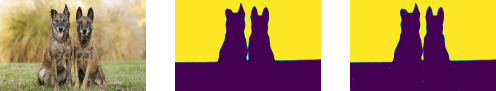
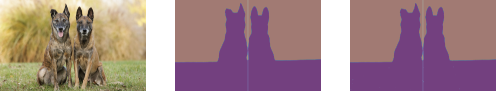
Add symmetric axis to output

diff --git a/symmetric_seg.py b/symmetric_seg.py
@@ -5,6 +5,9 @@ import numpy as np
 from scipy.ndimage import rotate
 from glob import glob
 import os
+import torch
+from flip_rotation import flip_mask_with_symmetric_center
+from time import time
 
 
 def compute_iou(mask1, mask2):
@@ -24,82 +27,71 @@ def compute_iou(mask1, mask2):
     return iou
 
 
-def flip_mask_with_symmetric_center(mask, center, theta):
-    """
-    Flip a binary mask with respect to its symmetric center and given rotation angle.
-    
-    Arguments:
-    mask -- 2D numpy array, binary mask to be flipped
-    center -- tuple, center of the symmetric axis
-    theta -- float, rotation angle (in degrees)
-    
-    Returns:
-    flipped_mask -- 2D numpy array, flipped binary mask
-    """
-    
-    # Compute shift required to center the bounding box in the image
-    center = np.array(center).astype(int)
-    shift = tuple(center - (np.array(mask.shape) / 2).astype(int))
-    neg_shift = tuple([-x for x in shift])
-    
-    # Shift the image
-    shifted_mask = np.roll(mask, neg_shift, axis=(0, 1))
-    
-    # Flip the image with respect to the symmetric axis
-    flipped_mask = rotate(shifted_mask, -theta, reshape=False)
-    flipped_mask = np.fliplr(flipped_mask)
-    flipped_mask = rotate(flipped_mask, theta, reshape=False)
-    
-    # Shift the image back to its original position
-    flipped_mask = np.roll(flipped_mask, shift, axis=(0, 1))
-    
-    return flipped_mask
-
-
-def symmetric_images_detection(model_path, thetas = np.arange(0, 180, 30)):  
-    sam = sam_model_registry["vit_h"](checkpoint=model_path).to("cuda")
+def symmetric_images_detection(model_path, image_paths, 
+                               iou_threshold=0.8, area_ratio_threshold=0.1, thetas=np.arange(0, 180, 30)):
+    device = "cuda" if torch.cuda.is_available() else "cpu"
+    sam = sam_model_registry["vit_h"](checkpoint=model_path).to(device)
     predictor = SamPredictor(sam)
     mask_generator = SamAutomaticMaskGenerator(sam)
 
     filtered_segs = []
+    filtered_axes = []
+    max_ious = []
+    max_thetas = []
     for image_path in image_paths:
+        print('Process image: %s'%image_path)
         image = cv2.imread(image_path)
         image = cv2.cvtColor(image, cv2.COLOR_BGR2RGB)
         predictor.set_image(image)
         masks = mask_generator.generate(image)
 
         masks_mirror_ious = []
+        masks_mirror_thetas = []
+        symmetric_axes = []
         for d in masks:
             seg_masks = d['segmentation'].astype(np.float32)
             bbox = d['bbox']
             center = [bbox[1] + bbox[3]//2, bbox[0] + bbox[2]//2]
             ious = []
+            axes = []
             for i, theta in enumerate(thetas):
-                mirror_mask = flip_mask_with_symmetric_center(seg_masks, center, theta)
+                mirror_mask, symmetric_axis = flip_mask_with_symmetric_center(seg_masks, center, theta)
                 iou = compute_iou(seg_masks > 0.5, mirror_mask > 0.5)
                 ious.append(iou)
+                axes.append(symmetric_axis)
             ious = np.array(ious)
             argmax_theta = np.argmax(ious)
             masks_mirror_ious.append(ious[argmax_theta])
+            masks_mirror_thetas.append(argmax_theta)
+            symmetric_axes.append(axes[argmax_theta])
 
         masks_mirror_ious = np.array(masks_mirror_ious)
+        masks_mirror_thetas = np.array(masks_mirror_thetas)
         filtered_seg = []
+        filtered_ax = []
         inv_total_area = 1 / np.prod(image.shape[:2])
-        for _mask, iou in zip(masks, masks_mirror_ious):
+        for _mask, iou, theta, axis in zip(masks, masks_mirror_ious, masks_mirror_thetas, symmetric_axes):
             area_ratio = _mask['area'] * inv_total_area
-            if iou < 0.8 or area_ratio < 0.1:
+            if iou < iou_threshold or area_ratio < area_ratio_threshold:
                 continue
             filtered_seg.append(_mask['segmentation'])
+            filtered_ax.append(axis)
         filtered_segs.append(filtered_seg)
-    return filtered_segs
+        filtered_axes.append(filtered_ax)
+        max_ious.append(masks_mirror_ious)
+        max_thetas.append(masks_mirror_thetas)
+    return filtered_segs, filtered_axes, max_ious, max_thetas
 
 
 if __name__ == '__main__':
     model_path = "./models/sam_vit_h_4b8939.pth"
     image_paths = glob('./images/*')
-    filtered_segs = symmetric_images_detection(model_path, thetas=np.arange(0, 180, 30))
-
-    for image_path, filtered_seg in zip(image_paths, filtered_segs):
+    filtered_segs, filtered_axes, max_ious, max_thetas = symmetric_images_detection(model_path, image_paths, 
+        thetas=np.arange(0, 180, 30), 
+        iou_threshold=0.8, 
+        area_ratio_threshold=0.1)
+    
+    for image_path, filtered_seg, filtered_axis, max_theta in zip(image_paths, filtered_segs, filtered_axes, max_thetas):
         if len(filtered_seg) == 0:
             continue
         file_basename = os.path.basename(image_path).split('.')[0]
@@ -109,8 +101,9 @@ if __name__ == '__main__':
         
         axes[0].imshow(image)
         axes[0].axis('off')
-        for seg, axis in zip(filtered_seg, axes[1:]):
-            axis.imshow(seg)
+        for seg, sym_axs, axis in zip(filtered_seg, filtered_axis, axes[1:]):
+            axis.imshow(seg, alpha=0.5)
+            axis.imshow(sym_axs, alpha=0.5)
             axis.axis('off')
             axis.set_frame_on(False)
         

diff --git a/flip_rotation.py b/flip_rotation.py
@@ -1,6 +1,7 @@
 import numpy as np
 import matplotlib.pyplot as plt
 from scipy.ndimage import rotate
+import cv2
 
 
 def shift_image(image, shift_distance):
@@ -36,6 +37,7 @@ def flip_mask_with_symmetric_center(mask, center, theta):
     
     Returns:
     flipped_mask -- 2D numpy array, flipped binary mask
+    symmetric_axis -- 2D numpy array, binary mask indicating the symmetric axis
     """
     
     # Compute shift required to center the bounding box in the image
@@ -54,7 +56,17 @@ def flip_mask_with_symmetric_center(mask, center, theta):
     # Shift the image back to its original position
     flipped_mask = np.roll(flipped_mask, shift, axis=(0, 1))
     
-    return flipped_mask
+    # Create a binary mask indicating the symmetric axis
+    h, w = mask.shape
+    x, y = center
+    line_len = int(np.sqrt(h**2 + w**2))
+    x1 = int(x - np.cos(np.radians(theta)) * line_len)
+    y1 = int(y - np.sin(np.radians(theta)) * line_len)
+    x2 = int(x + np.cos(np.radians(theta)) * line_len)
+    y2 = int(y + np.sin(np.radians(theta)) * line_len)
+    symmetric_axis = np.zeros((h, w), dtype=np.uint8)
+    cv2.line(symmetric_axis, (y1, x1), (y2, x2), (255, 255, 255), thickness=4)  
+    return flipped_mask, symmetric_axis
 
 
 # Create an ellipse
@@ -68,12 +80,13 @@ ellipse = ((x / 30) ** 2 + (y / 20) ** 2 <= 1)
 ellipse = ellipse.astype(np.float32)
 ellipse = shift_image(ellipse, [offset[0], offset[1]])
 
-final_ellipse = flip_mask_with_symmetric_center(ellipse, center, theta)
+final_ellipse, symmetric_axis = flip_mask_with_symmetric_center(ellipse, center, theta)
 
 # Plot each step of the process
-fig, axs = plt.subplots(2)
-axs[0].imshow(ellipse, alpha=0.5)
-axs[0].set_title('Original ellipse')
-axs[0].imshow(final_ellipse, alpha=0.5)
-axs[0].set_title('Final ellipse')
+fig, axs = plt.subplots(1)
+axs.imshow(ellipse, alpha=0.5)
+axs.set_title('Original ellipse')
+axs.imshow(final_ellipse, alpha=0.5)
+axs.set_title('Final ellipse')
+axs.imshow(symmetric_axis, alpha=0.5)
 plt.show()
